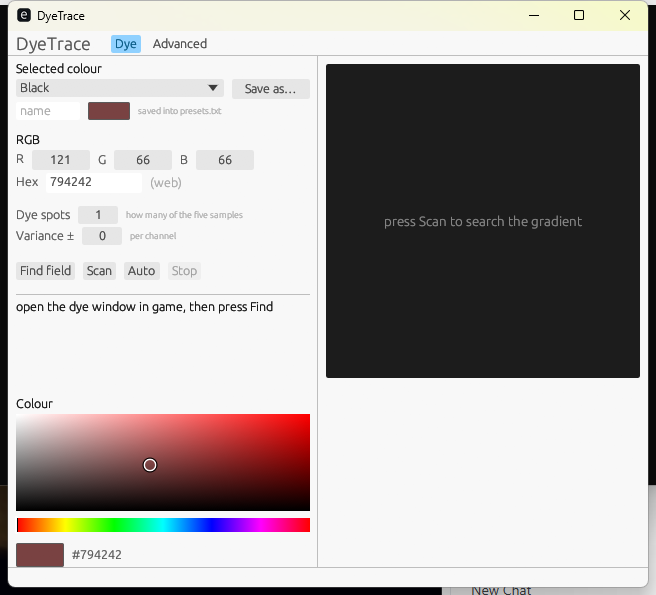
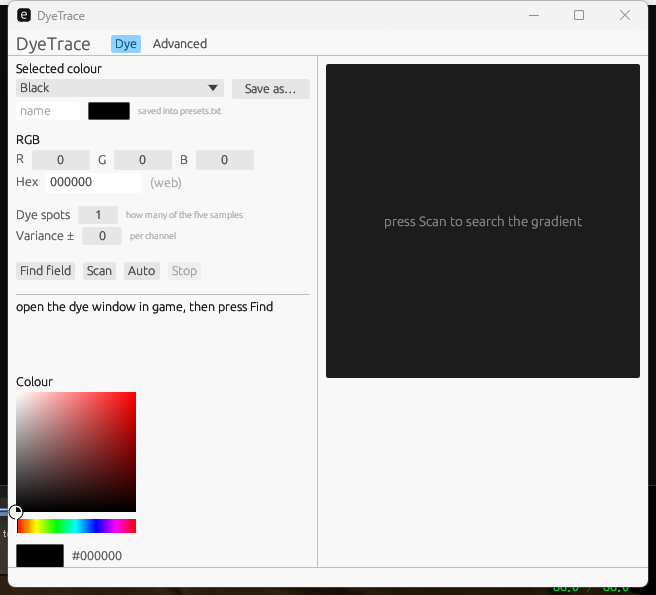
Never press Start Dyeing by accident, and make the picker square
The client turns the Pick Color button into Start Dyeing once a colour has been chosen; pressing that applies the dye and closes the form, which is what happened when arming retried the click. Arming now resets with Cancel first - verified to restore the Pick Color label and keep the window open - and then presses the button exactly once.

The colour square is 120x120 again with the hue strip matched to its width, so the strip and swatch stay inside the column.

diff --git a/crates/engine/src/cycle.rs b/crates/engine/src/cycle.rs
@@ -27,8 +27,6 @@ const SETTLE: Duration = Duration::from_millis(320);
 const LEGEND_TRIES: usize = 4;
 /// A grab below this percentage of saturated pixels is not a dye palette.
 const MIN_GRADIENT: u32 = 25;
-/// How many failed arming attempts before deciding the dye window is not open.
-pub const ARM_TRIES: usize = 3;
 
 #[derive(Clone, Debug)]
 pub struct Options {
@@ -289,32 +287,39 @@ fn prepare(
             // for them to reach it rather than whatever window covers it.
             window.focus(id);
             armed = true;
-            let mut last = Err(ScanFail::NoLegend);
-            for _ in 0..ARM_TRIES {
-                if opts.halted() {
-                    return Err(ScanFail::Pointer);
-                }
-                window.focus(id);
-                if !mouse.move_to(button_row.0, button_row.1) {
-                    return Err(ScanFail::Pointer);
-                }
-                // let the client register the pointer sitting on the button
-                sleep(Duration::from_millis(200));
-                mouse.click();
-                sleep(Duration::from_millis(420));
 
-                let (_, frame) = window_frame(window, screen, id).ok_or(ScanFail::Pointer)?;
-                grid = palette_grab(&frame, origin).ok_or(ScanFail::NoGradient)?;
-                if palette::gradient_percent(&grid) < MIN_GRADIENT {
-                    return Err(ScanFail::NoGradient);
-                }
-
-                last = read_offsets(window, screen, mouse, id, &board);
-                if last.is_ok() {
-                    break;
-                }
+            // Reset first.  This button turns into "Start Dyeing" once a colour
+            // has been chosen, and pressing that applies the dye and closes the
+            // window.  Cancel brings the label back to "Pick Color" and keeps
+            // the window open, so pressing it first makes the next click safe.
+            let (cx, cy) = button(&board, opts.cancel_x, opts.button_y);
+            if !mouse.move_to(cx, cy) {
+                return Err(ScanFail::Pointer);
             }
-            last?
+            sleep(Duration::from_millis(150));
+            mouse.click();
+            sleep(Duration::from_millis(360));
+
+            if opts.halted() {
+                return Err(ScanFail::Pointer);
+            }
+
+            // One press only: a second press would be aimed at a button that may
+            // now read "Start Dyeing".
+            if !mouse.move_to(button_row.0, button_row.1) {
+                return Err(ScanFail::Pointer);
+            }
+            sleep(Duration::from_millis(200));
+            mouse.click();
+            sleep(Duration::from_millis(420));
+
+            let (_, frame) = window_frame(window, screen, id).ok_or(ScanFail::Pointer)?;
+            grid = palette_grab(&frame, origin).ok_or(ScanFail::NoGradient)?;
+            if palette::gradient_percent(&grid) < MIN_GRADIENT {
+                return Err(ScanFail::NoGradient);
+            }
+
+            read_offsets(window, screen, mouse, id, &board)?
         }
         Err(other) => return Err(other),
     };

diff --git a/tools/button_ink.py b/tools/button_ink.py
@@ -1,0 +1,58 @@
+"""Measure the ink of the Pick Color / Start Dyeing button in both states."""
+
+import struct
+
+REGION = (100, 385, 70, 40)   # relative to the palette origin (153,245)
+
+
+def read_bmp(path):
+    d = open(path, 'rb').read()
+    off = struct.unpack_from('<I', d, 10)[0]
+    w, h = struct.unpack_from('<ii', d, 18)
+    bpp = struct.unpack_from('<H', d, 28)[0]
+    stride = ((w * bpp // 8) + 3) & ~3
+    topdown = h < 0
+    H = abs(h)
+    px = {}
+    for row in range(H):
+        y = row if topdown else H - 1 - row
+        base = off + row * stride
+        for x in range(w):
+            o = base + x * (bpp // 8)
+            px[(x, y)] = (d[o + 2], d[o + 1], d[o])
+    return px
+
+
+def measure(path, ox, oy):
+    px = read_bmp(path)
+    x0, y0, w, h = REGION
+    lums = []
+    cells = []
+    for y in range(y0, y0 + h):
+        for x in range(x0, x0 + w):
+            p = px.get((ox + x, oy + y))
+            if p is None:
+                continue
+            lum = (p[0] * 77 + p[1] * 151 + p[2] * 28) >> 8
+            lums.append(lum)
+            cells.append((x, lum))
+    lums.sort()
+    background = lums[len(lums) // 2]
+    threshold = background + 45
+    columns = sorted({x for x, lum in cells if lum > threshold})
+    ink = sum(1 for _, lum in cells if lum > threshold)
+    if not columns:
+        return dict(background=background, ink=0, first=None, last=None, width=0)
+    return dict(
+        background=background,
+        ink=ink,
+        first=columns[0],
+        last=columns[-1],
+        width=columns[-1] - columns[0] + 1,
+    )
+
+
+for name, path in (("start state", "btn_start.bmp"), ("after cancel", "btn_pick.bmp")):
+    m = measure(path, 153, 245)
+    print(f'{name:14s} bg={m["background"]:3d} ink={m["ink"]:4d} '
+          f'cols={m["width"]:3d} (x {m["first"]}..{m["last"]})')

diff --git a/crates/ui/src/app.rs b/crates/ui/src/app.rs
@@ -273,12 +273,12 @@ impl DyeTraceApp {
 
     fn picker_panel(&mut self, ui: &mut egui::Ui) {
         ui.label(RichText::new("Colour").strong());
-        let width = ui.available_width().min(300.0);
+        let width = ui.available_width().min(120.0);
 
         let mut changed = picker::saturation_value_square(
             ui,
             &mut self.textures,
-            Vec2::new(width, width * 0.33),
+            Vec2::new(width, width),
             &mut self.hue,
             &mut self.saturation,
             &mut self.value,
@@ -441,7 +441,7 @@ impl eframe::App for DyeTraceApp {
                     self.controls(ui);
 
                     // Keep the picker at the bottom of the column.
-                    let keep = 168.0;
+                    let keep = 190.0;
                     let slack = (ui.available_height() - keep).max(0.0);
                     ui.add_space(slack);
                     self.picker_panel(ui);
